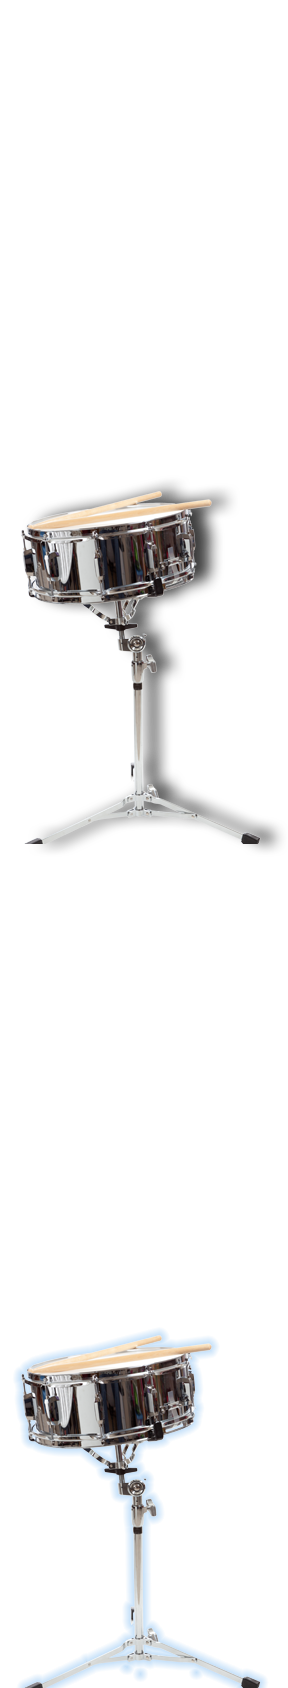
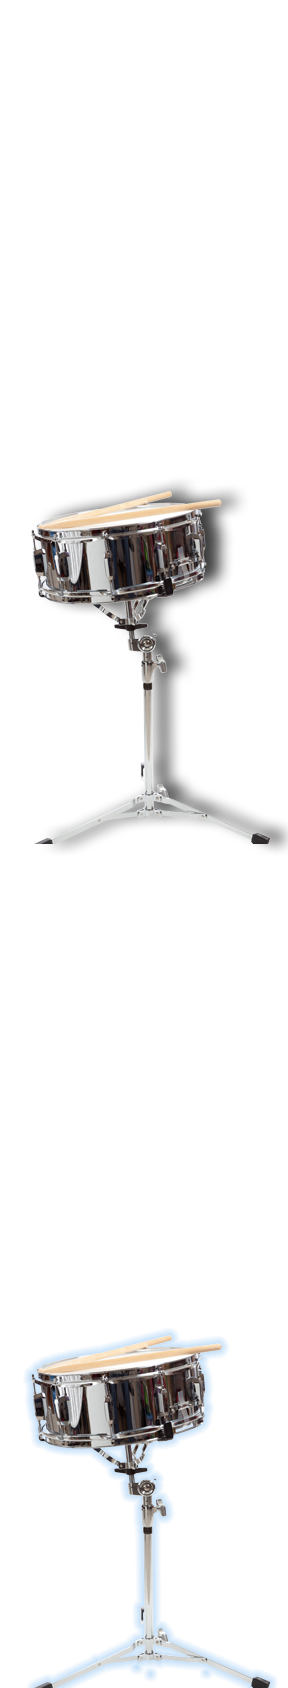
RAE-166

diff --git a/app/scss/interactions/_pageturner-mediaplans-44.scss b/app/scss/interactions/_pageturner-mediaplans-44.scss
@@ -81,10 +81,10 @@
 
   & .reveal-items-buttons-container {
     position: absolute;
-    height: 864px;
+    height: 844px;
     width: 967px;
     right: 0px;
-    bottom: -50px;
+    bottom: 0px;
     z-index: 0;
   }
 
@@ -98,44 +98,55 @@
     -webkit-filter: grayscale(.8); /* Old WebKit Browsers */
     &:nth-of-type(1) {
       background: url(../assets/images/102/pt-044/bass.png) no-repeat 0px 0px;
-      top: 0px;
+      bottom: 0px;
       right: 0px;
-      height: 900px;
+      height: 844px;
       width: 288px;
+
 
     }
     &:nth-of-type(2) {
       background: url(../assets/images/102/pt-044/guitar.png) no-repeat 0px 0px;
-      top: 0px;
+      bottom: -10px;
       left: 483px;
-      height: 900px;
+      height: 844px;
       width: 288px;
     }
     &:nth-of-type(3) {
       background: url(../assets/images/102/pt-044/snare.png) no-repeat 0px 0px;
-      top: 0px;
+      bottom: 0px;
       left: 349px;
-      height: 900px;
+      height: 844px;
       width: 288px;
     }
 
     &:nth-of-type(4) {
       background: url(../assets/images/102/pt-044/sax.png) no-repeat 0px 0px;
-      top: 0px;
+      bottom: 0px;
       left: 0px;
-      height: 900px;
+      height: 200px;
       width: 493px;
       z-index:1;
+      /*&:hover {
+        background-position: 0px -844px;
+      }*/
     }
 
     &:hover {
-      background-position: 0px -844px;
+
       filter: grayscale(0%);
       filter: none;
       -webkit-filter: grayscale(0);
     }
     &.selected {
-      background-position: 0px -844px;
+      background-position: 0 -844px;
+      &:nth-of-type(4) {
+        background-position: 0 -200px;
+      }
+      background-position: 0 -844px;
+      &:nth-of-type(4) {
+        background-position: 0 -200px;
+      }
       cursor:default;
     }
 

diff --git a/app/css/application.css b/app/css/application.css
@@ -2833,10 +2833,10 @@ body {
     padding-bottom: 20px; }
   #cr-mediaplans-s6 .reveal-items-buttons-container {
     position: absolute;
-    height: 864px;
+    height: 844px;
     width: 967px;
     right: 0px;
-    bottom: -50px;
+    bottom: 0px;
     z-index: 0; }
   #cr-mediaplans-s6 .reveal-item {
     cursor: pointer;
@@ -2852,37 +2852,44 @@ body {
     transition: margin 0.3s; }
     #cr-mediaplans-s6 .reveal-item:nth-of-type(1) {
       background: url(../assets/images/102/pt-044/bass.png) no-repeat 0px 0px;
-      top: 0px;
+      bottom: 0px;
       right: 0px;
-      height: 900px;
+      height: 844px;
       width: 288px; }
     #cr-mediaplans-s6 .reveal-item:nth-of-type(2) {
       background: url(../assets/images/102/pt-044/guitar.png) no-repeat 0px 0px;
-      top: 0px;
+      bottom: -10px;
       left: 483px;
-      height: 900px;
+      height: 844px;
       width: 288px; }
     #cr-mediaplans-s6 .reveal-item:nth-of-type(3) {
       background: url(../assets/images/102/pt-044/snare.png) no-repeat 0px 0px;
-      top: 0px;
+      bottom: 0px;
       left: 349px;
-      height: 900px;
+      height: 844px;
       width: 288px; }
     #cr-mediaplans-s6 .reveal-item:nth-of-type(4) {
       background: url(../assets/images/102/pt-044/sax.png) no-repeat 0px 0px;
-      top: 0px;
+      bottom: 0px;
       left: 0px;
-      height: 900px;
+      height: 200px;
       width: 493px;
-      z-index: 1; }
+      z-index: 1;
+      /*&:hover {
+        background-position: 0px -844px;
+      }*/ }
     #cr-mediaplans-s6 .reveal-item:hover {
-      background-position: 0px -844px;
       filter: grayscale(0%);
       filter: none;
       -webkit-filter: grayscale(0); }
     #cr-mediaplans-s6 .reveal-item.selected {
-      background-position: 0px -844px;
+      background-position: 0 -844px;
+      background-position: 0 -844px;
       cursor: default; }
+      #cr-mediaplans-s6 .reveal-item.selected:nth-of-type(4) {
+        background-position: 0 -200px; }
+      #cr-mediaplans-s6 .reveal-item.selected:nth-of-type(4) {
+        background-position: 0 -200px; }
 
 #cr-mediaplans-s7 {
   position: absolute;